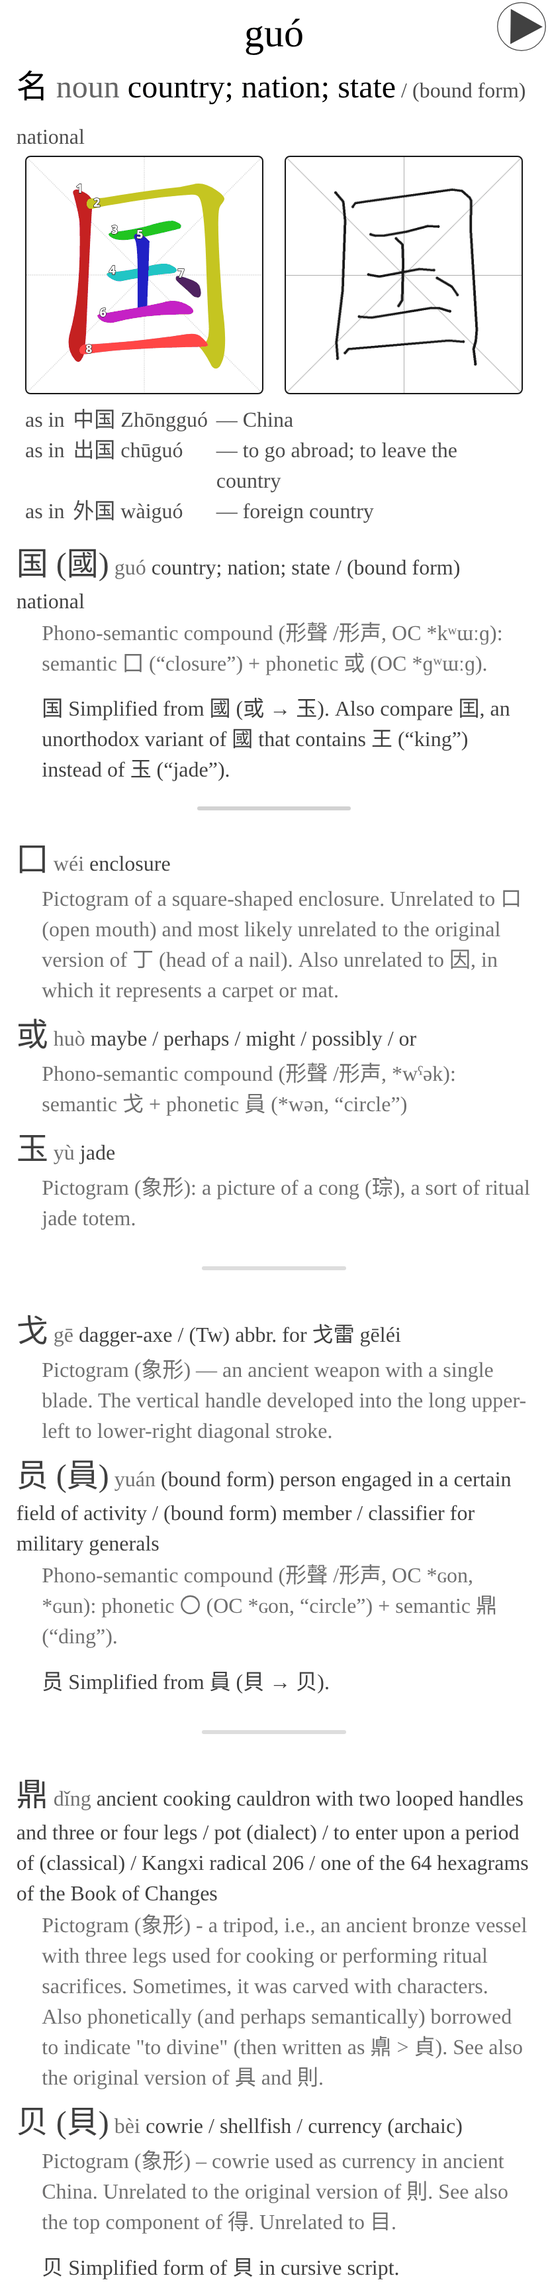
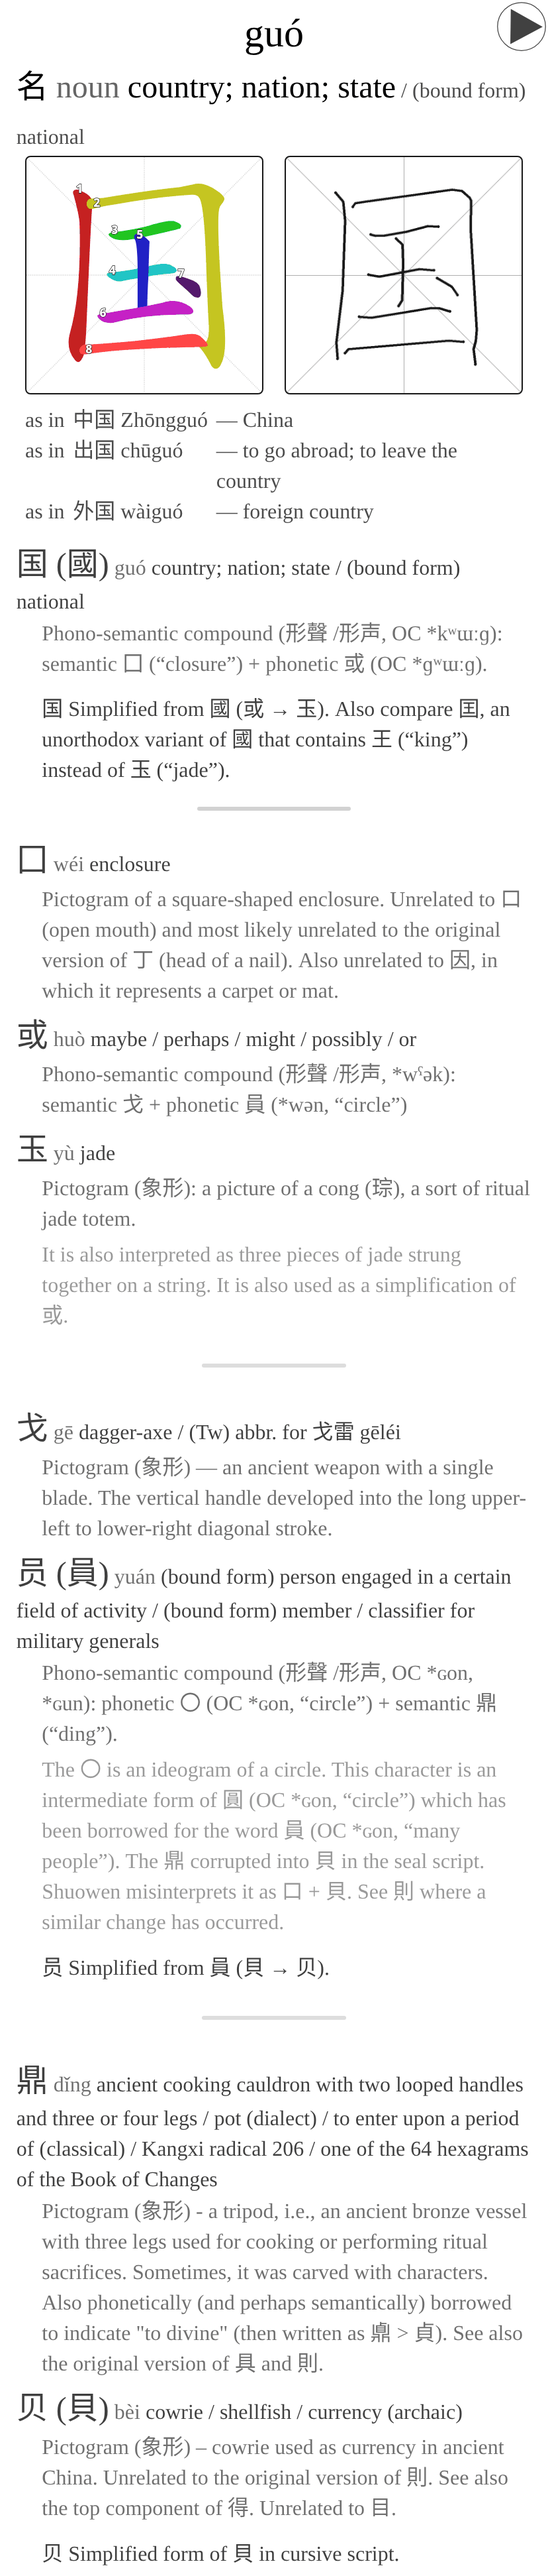
Give a part the whole account of its shape
A part row was cut to the lead paragraph, so 退 under 腿 read only as its
oracle bone form -- 皀 plus 夊, to leave the table after eating -- and stopped
before the two paragraphs that say the vessel 皀 became the unrelated 艮, and
what Shuowen made of the seal script. Those are the paragraphs about the shape
on the page.

The whole account, then, as the card teaching that character gives it. Each
paragraph already faces the test of whether it is about the glyph at all, so
what arrives is what a reader came for.

Changed region(s): [[0.0302, 0.0, 0.9964, 1.0]]

diff --git a/scripts/04_build_apkg.py b/scripts/04_build_apkg.py
@@ -2395,7 +2395,11 @@ def read_glossary(words, wiki, readings) -> Glossary:
             seen.add(ch)
             shown_chars.add(ch)
             queue += [(c, step + 1) for c in made_of(ch)]
-            origin = etym_char(ch, full=False)
+            # The whole account, as the card teaching that character gives it. Cut to
+            # its lead, 退 under 腿 read only as its oracle bone form and stopped before
+            # the two paragraphs saying the vessel 皀 became 艮 and what Shuowen made of
+            # it -- which is the part of it about the shape on the page.
+            origin = etym_char(ch, full=True)
             if not origin:
                 continue
             if step > drawn and out:
